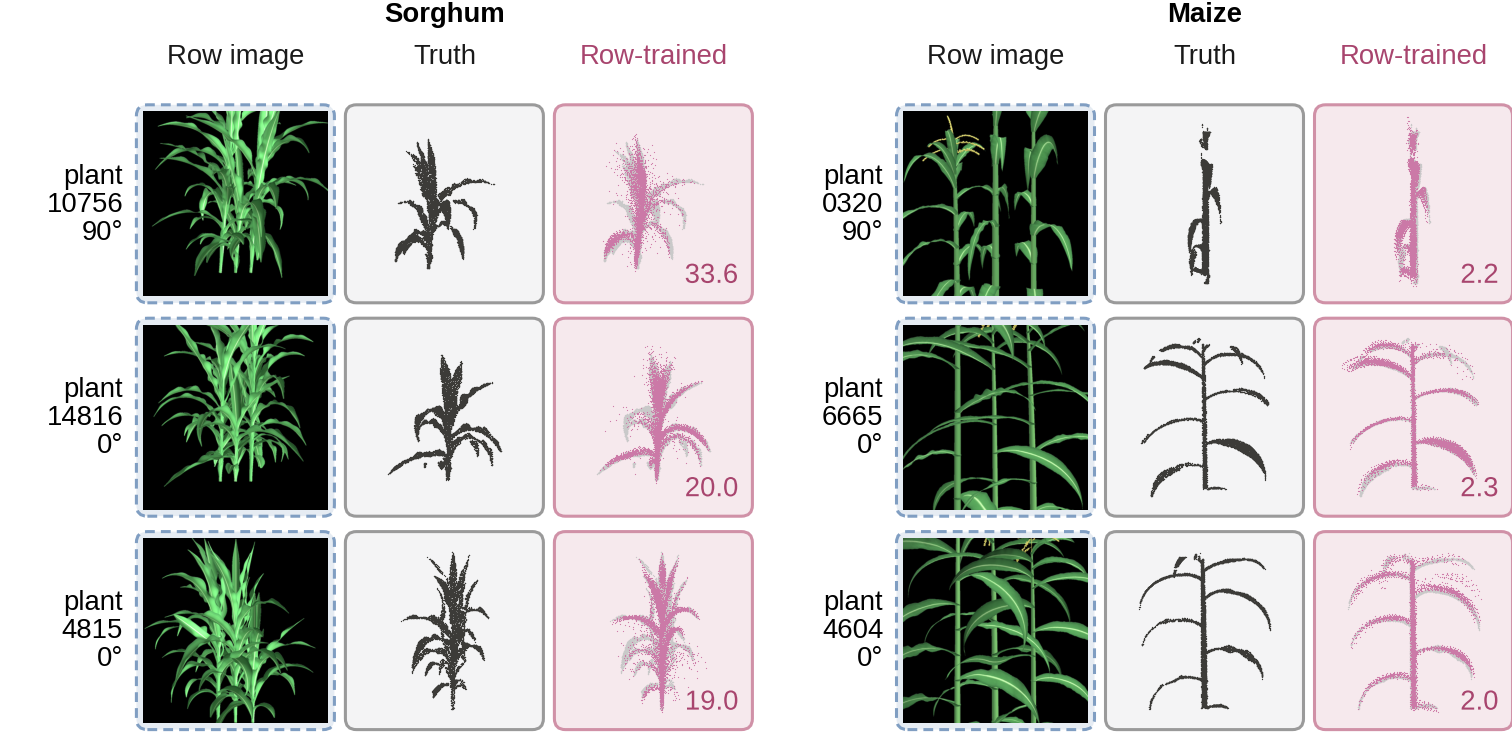
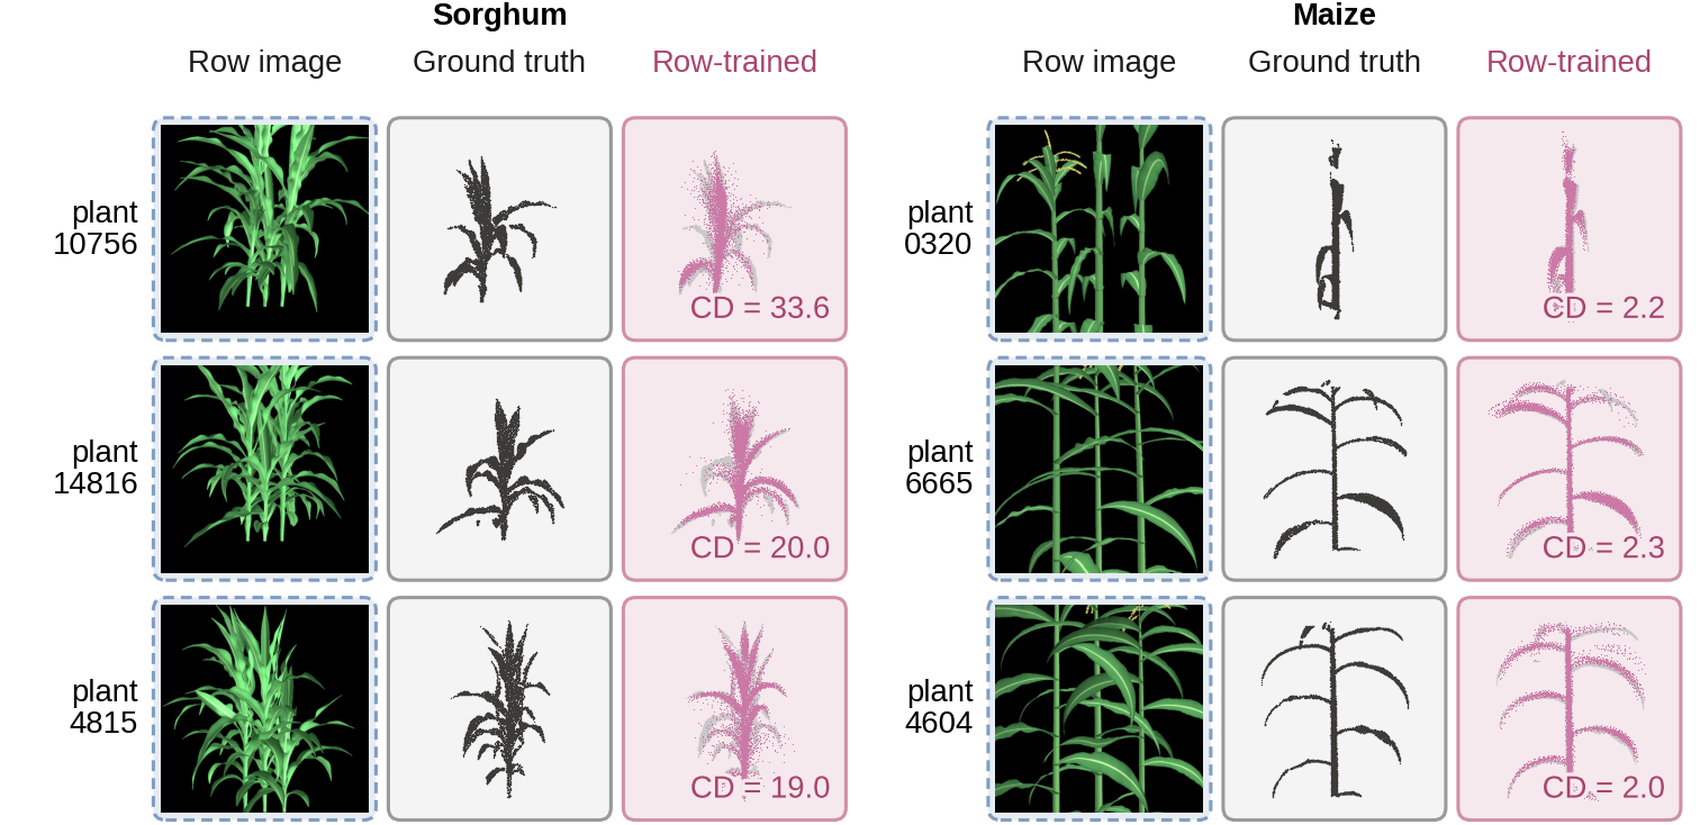
Comparison page: Fig. 5 as in the paper (CD labels, ground truth, no yaw)

diff --git a/figures/pages/ugg_compare/index.html b/figures/pages/ugg_compare/index.html
@@ -113,8 +113,8 @@
     </div>
   </section>
   <section aria-labelledby="h-fig-rows-examples">
-    <h2 id="h-fig-rows-examples">Crop-row examples</h2>
-    <p>Photo in a dashed image box, truth in grey, row-trained prediction in a solid point-cloud box.</p>
+    <h2 id="h-fig-rows-examples">Fig. 5 · Crop-row examples</h2>
+    <p><b>In the paper as Fig. 5.</b> No yaw labels, "Ground truth" instead of "Truth", and each prediction tile reads "CD = …": the Chamfer distance of the row-trained point cloud (pink) to the ground truth (grey), in 10⁻⁴ m², lower is better. The row image sits in a dashed image box.</p>
     <div class="pair">
       <figure class="paper"><div class="figbox"><img loading="lazy" src="img/fig_rows_examples_cur.png" alt="Crop-row examples, current paper version"></div><figcaption>Current paper</figcaption></figure>
       <figure class="ugg"><div class="figbox"><img loading="lazy" src="img/fig_rows_examples_ugg.png" alt="Crop-row examples, UGG-style version"></div><figcaption>UGG ideas, our font</figcaption></figure>
